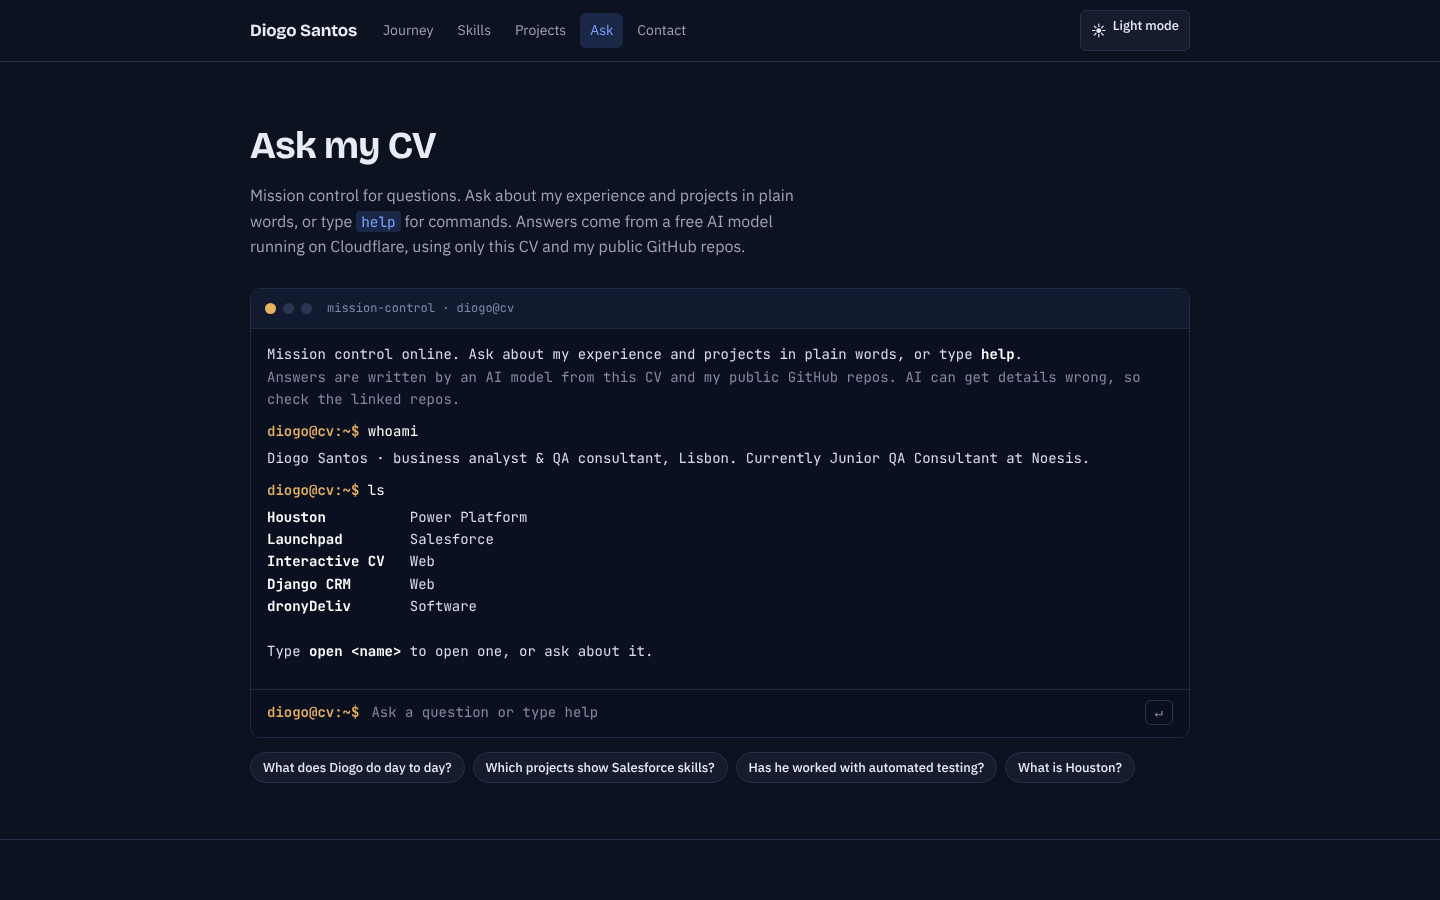
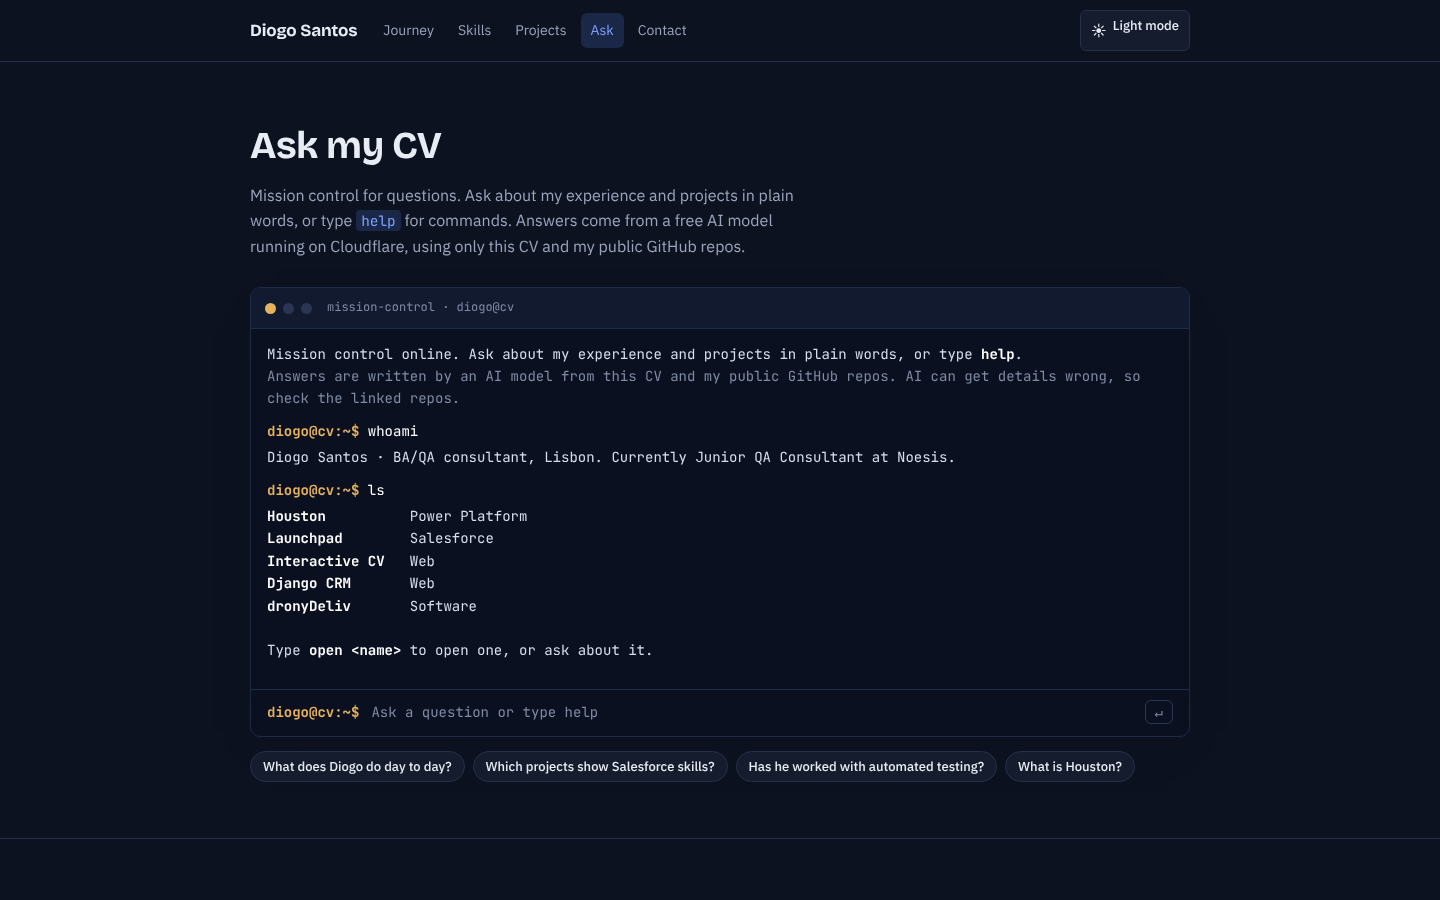
BA/QA consultant everywhere: hero, footer, whoami, Ask briefing and link preview

diff --git a/index.html b/index.html
@@ -13,7 +13,7 @@
 <meta property="og:title" content="Diogo Santos · BA/QA Consultant">
 <meta property="og:description" content="Interactive CV of Diogo Santos, business analyst and QA consultant in Lisbon. Requirements, BPMN and Microsoft and Salesforce platforms, plus my own software projects.">
 <meta property="og:url" content="https://diogos7.github.io/">
-<meta property="og:image" content="https://diogos7.github.io/assets/img/og-image.png?v=20261104">
+<meta property="og:image" content="https://diogos7.github.io/assets/img/og-image.png?v=20261124">
 <meta property="og:image:width" content="1200">
 <meta property="og:image:height" content="627">
 <meta name="twitter:card" content="summary_large_image">
@@ -36,7 +36,7 @@
 <header class="hero" id="top">
   <div class="tiles" aria-hidden="true"></div>
   <div class="wrap">
-    <div class="eyebrow">Business analyst &amp; QA consultant · Lisbon, Portugal</div>
+    <div class="eyebrow">BA/QA consultant · Lisbon, Portugal</div>
     <h1>Diogo Santos</h1>
     <p class="lede">I turn business needs into clear requirements, process models and tested solutions on Dynamics 365, Power Platform and Salesforce. Outside client work I build my own projects: Houston on Power Platform and Launchpad on Salesforce.</p>
     <div class="cta">
@@ -121,9 +121,9 @@
     <div class="lb-thumbs" id="lbthumbs"></div>
   </div>
 </div>
-<footer><div class="wrap">© 2026 Diogo Santos · Business analyst &amp; QA consultant · Lisbon, Portugal</div></footer>
-<script src="assets/js/data.js?v=20261124"></script>
+<footer><div class="wrap">© 2026 Diogo Santos · BA/QA consultant · Lisbon, Portugal</div></footer>
+<script src="assets/js/data.js?v=20261124b"></script>
 <script src="assets/js/app.js?v=20261123"></script>
-<script src="assets/js/ask.js?v=20261123"></script>
+<script src="assets/js/ask.js?v=20261124"></script>
 </body>
 </html>

diff --git a/assets/js/data.js b/assets/js/data.js
@@ -99,7 +99,7 @@ const CV = {
       context:"Personal project · 2026",
       shots:[
         {src:"assets/img/shots/cv-cover.webp?v=20261104-3", caption:"Interactive CV: a career across the solar system"},
-        {src:"assets/img/shots/cv-hero.webp?v=20261124", caption:"Header with intro, links and quick stats"},
+        {src:"assets/img/shots/cv-hero.webp?v=20261124-2", caption:"Header with intro, links and quick stats"},
         {src:"assets/img/shots/cv-journey.webp?v=20261101-2", caption:"Journey: the rocket reaches Jupiter, my current role as a QA consultant"},
         {src:"assets/img/shots/cv-journey-next.webp?v=20261101-2", caption:"Journey: Saturn, the next mission"},
         {src:"assets/img/shots/cv-skills.webp?v=20261124", caption:"Skills filtered to Python, highlighting matching work"},

diff --git a/assets/js/ask.js b/assets/js/ask.js
@@ -50,7 +50,7 @@
     },
     whoami(){
       const now = CV.journey.find(m => m.current);
-      print(`Diogo Santos · business analyst &amp; QA consultant, Lisbon.${now ? ` Currently ${esc(now.title)} at ${esc(now.org.split(" · ")[0])}.` : ""}`);
+      print(`Diogo Santos · BA/QA consultant, Lisbon.${now ? ` Currently ${esc(now.title)} at ${esc(now.org.split(" · ")[0])}.` : ""}`);
     },
     ls(){
       print(CV.projects.map(p => `<b>${esc(p.name.padEnd(16))}</b> ${esc(p.category)}`).join("\n") +

diff --git a/worker/src/knowledge.js b/worker/src/knowledge.js
@@ -9,7 +9,7 @@ const line = (label, value) => (value ? `${label}: ${value}\n` : "");
 
 function cvText() {
   let out = "## Profile\n";
-  out += "Name: Diogo Santos\nRole: Business analyst & QA consultant, Lisbon, Portugal\n";
+  out += "Name: Diogo Santos\nRole: BA/QA consultant (business analyst and QA consultant), Lisbon, Portugal\n";
   out += `Website: ${SITE}\n\n`;
 
   out += "## Journey (education and work, oldest first)\n";
